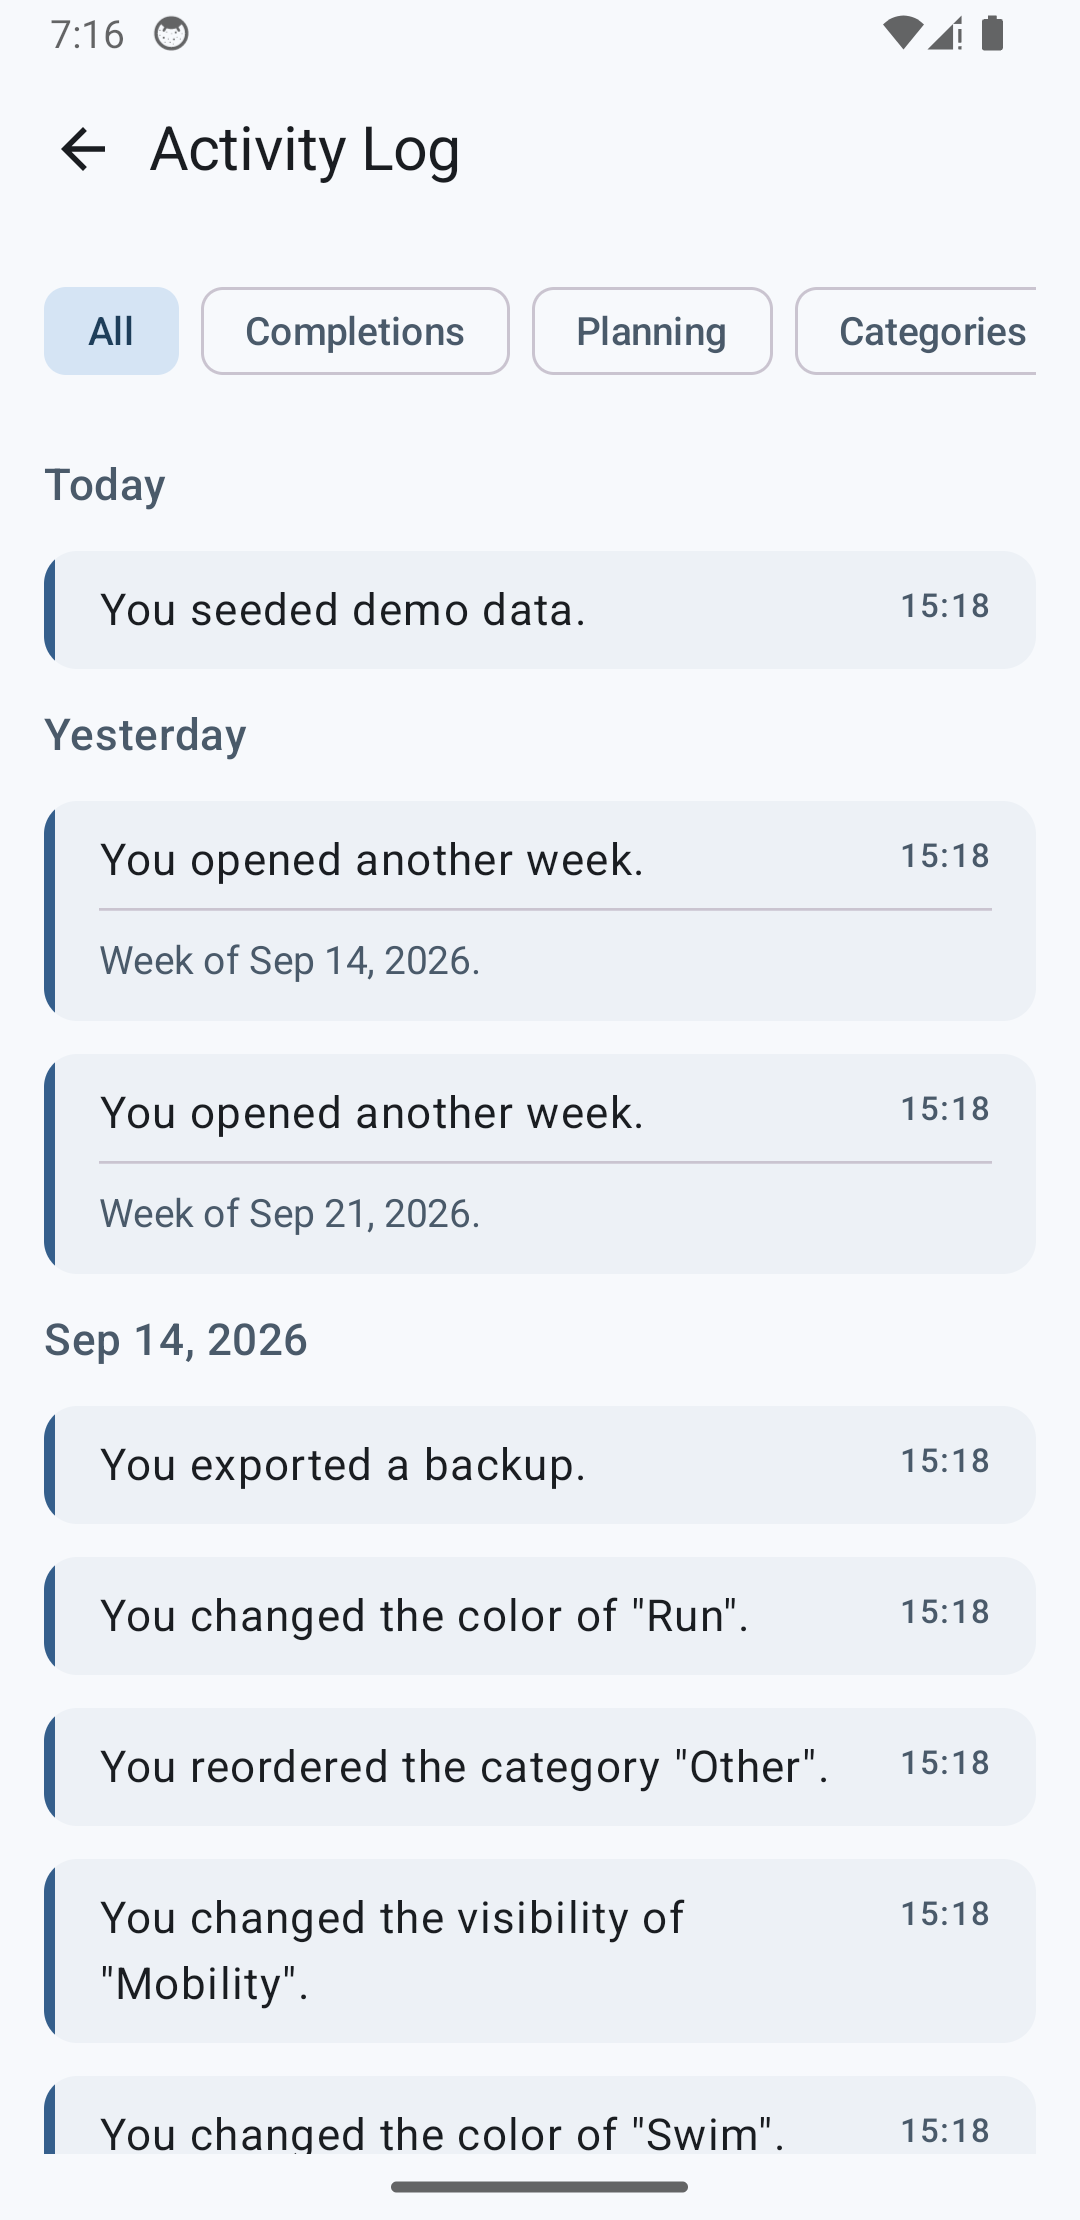
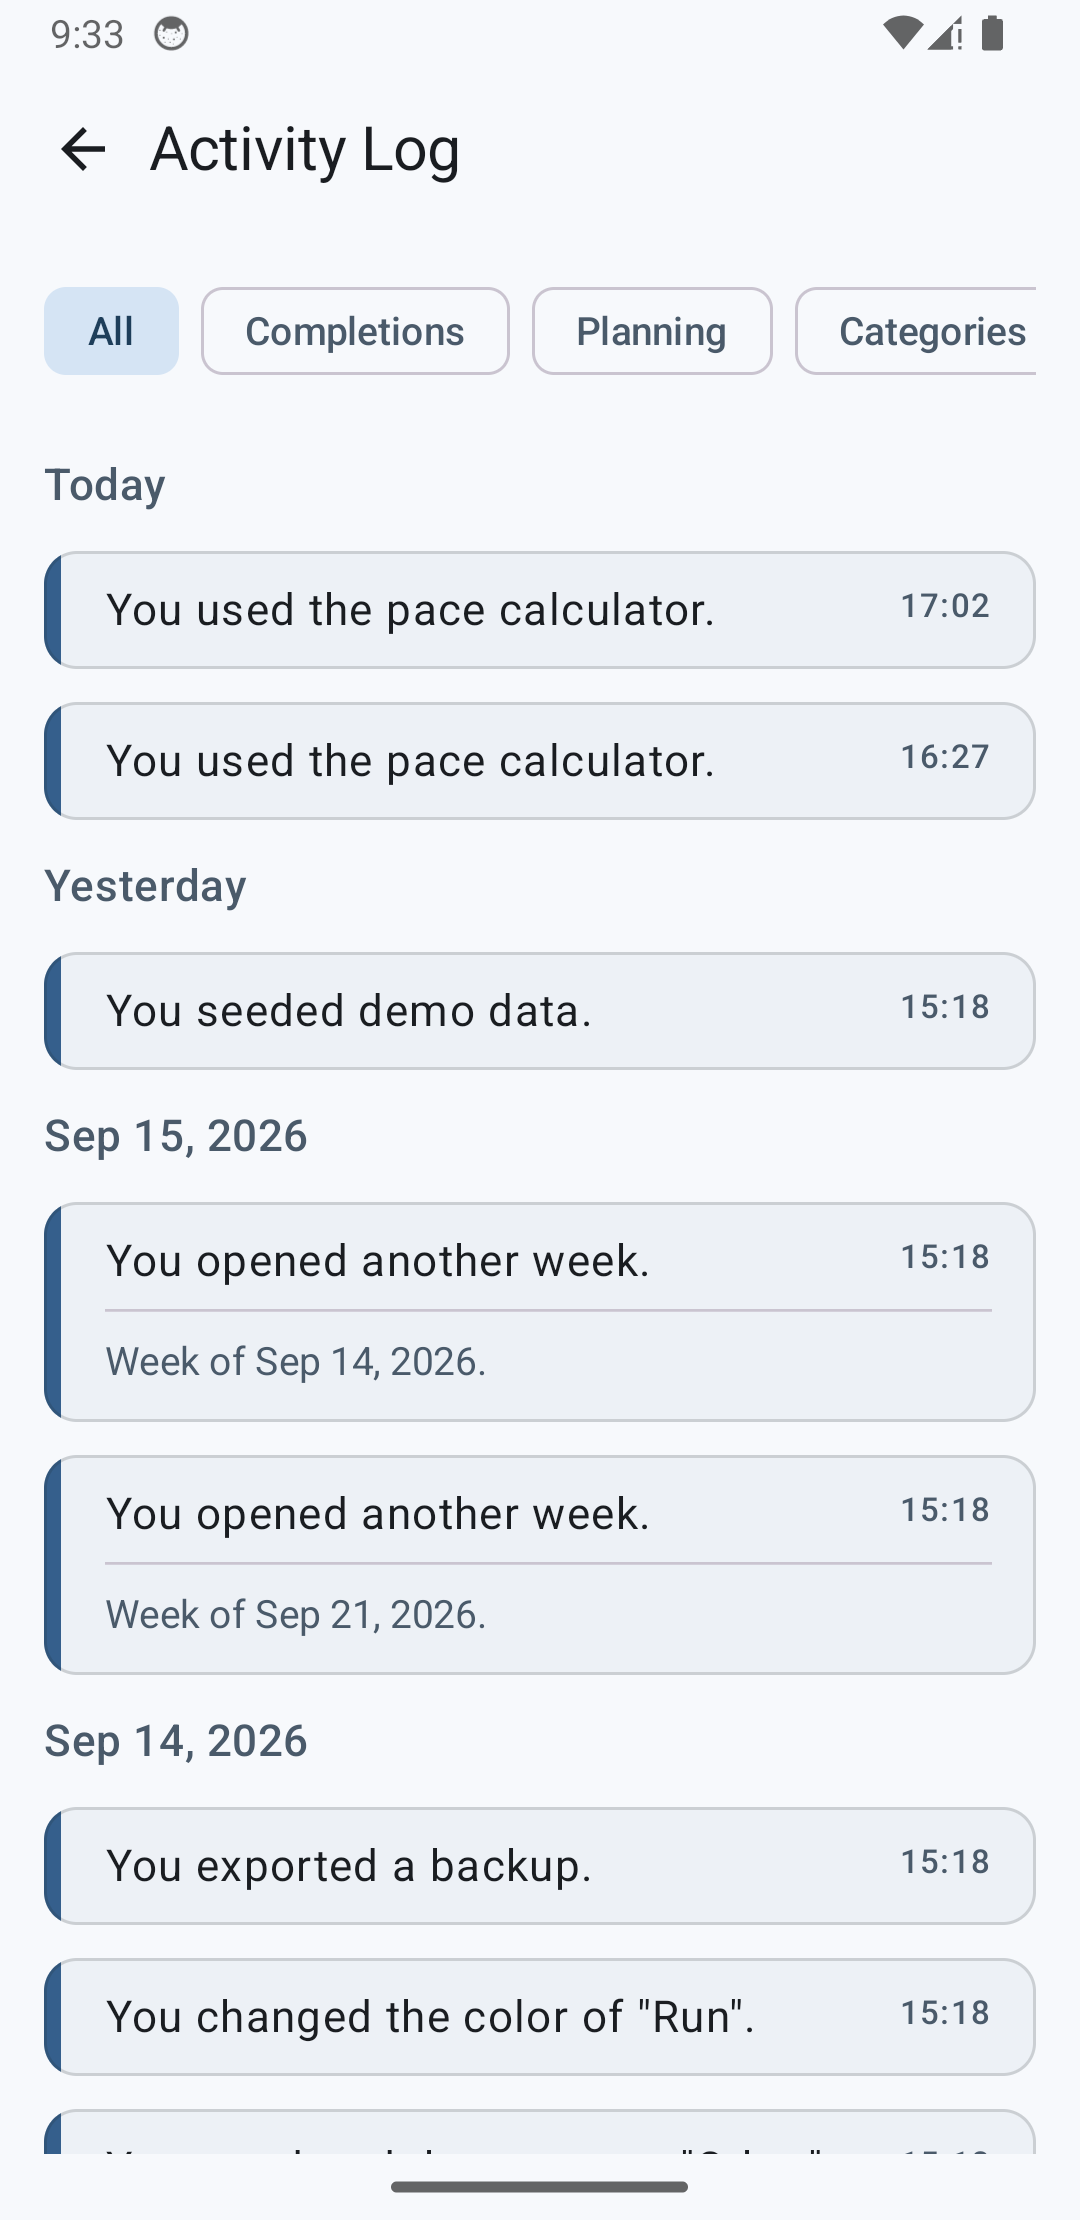
Align activity timeline rails

diff --git a/app/src/main/java/com/rafaelfelipeac/hermes/features/activity/presentation/ActivityScreen.kt b/app/src/main/java/com/rafaelfelipeac/hermes/features/activity/presentation/ActivityScreen.kt
@@ -1,6 +1,7 @@
 package com.rafaelfelipeac.hermes.features.activity.presentation
 
 import androidx.activity.compose.BackHandler
+import androidx.compose.foundation.BorderStroke
 import androidx.compose.foundation.gestures.animateScrollBy
 import androidx.compose.foundation.layout.Arrangement
 import androidx.compose.foundation.layout.Box
@@ -51,12 +52,13 @@ import com.rafaelfelipeac.hermes.R
 import com.rafaelfelipeac.hermes.core.strings.relativeDateText
 import com.rafaelfelipeac.hermes.core.ui.components.EmptyStateCard
 import com.rafaelfelipeac.hermes.core.ui.currentLocale
+import com.rafaelfelipeac.hermes.core.ui.theme.Dimens.BorderHairline
+import com.rafaelfelipeac.hermes.core.ui.theme.Dimens.CategoryAccentWidth
 import com.rafaelfelipeac.hermes.core.ui.theme.Dimens.ElevationSm
 import com.rafaelfelipeac.hermes.core.ui.theme.Dimens.SpacingLg
 import com.rafaelfelipeac.hermes.core.ui.theme.Dimens.SpacingMd
 import com.rafaelfelipeac.hermes.core.ui.theme.Dimens.SpacingSm
 import com.rafaelfelipeac.hermes.core.ui.theme.Dimens.SpacingXl
-import com.rafaelfelipeac.hermes.core.ui.theme.Dimens.SpacingXs
 import com.rafaelfelipeac.hermes.features.activity.presentation.model.ActivityFiltersUi
 import com.rafaelfelipeac.hermes.features.activity.presentation.model.ActivityItemUi
 import com.rafaelfelipeac.hermes.features.activity.presentation.model.ActivityPrimaryFilter
@@ -440,6 +442,7 @@ private fun ActivityRow(
     Surface(
         tonalElevation = ElevationSm,
         shape = shapes.medium,
+        border = BorderStroke(BorderHairline, colorScheme.onSurface.copy(alpha = ACTIVITY_ROW_FRAME_ALPHA)),
         modifier =
             Modifier
                 .fillMaxWidth()
@@ -457,7 +460,7 @@ private fun ActivityRow(
                 modifier =
                     Modifier
                         .fillMaxHeight()
-                        .width(SpacingXs),
+                        .width(CategoryAccentWidth),
             ) {}
 
             Column(
@@ -504,5 +507,6 @@ private fun ActivityRow(
 }
 
 private const val HEADER_KEY_PREFIX = "header-"
+private const val ACTIVITY_ROW_FRAME_ALPHA = 0.16f
 private const val TITLE_MAX_LINES = 4
 private const val SUBTITLE_MAX_LINES = 6

diff --git a/LEARNING.md b/LEARNING.md
@@ -694,3 +694,5 @@ Recent learnings:
 - Personal Record cards should use the same rail/frame vocabulary as Trophies and Events. Keeping the category rail at the shared width and the remaining frame neutral makes category-owned surfaces feel connected across feature shelves.
 
 - Pace calculator results should not borrow category-card rail language when there is no category metadata. A distinct result container tone makes the computed output read as an answer instead of another input or category-owned card.
+
+- Activity timeline rails should share the same physical rail and neutral-frame vocabulary as later category-owned cards, even though their color represents chronology rather than category metadata. Keeping the geometry consistent makes the UI family feel intentional.
